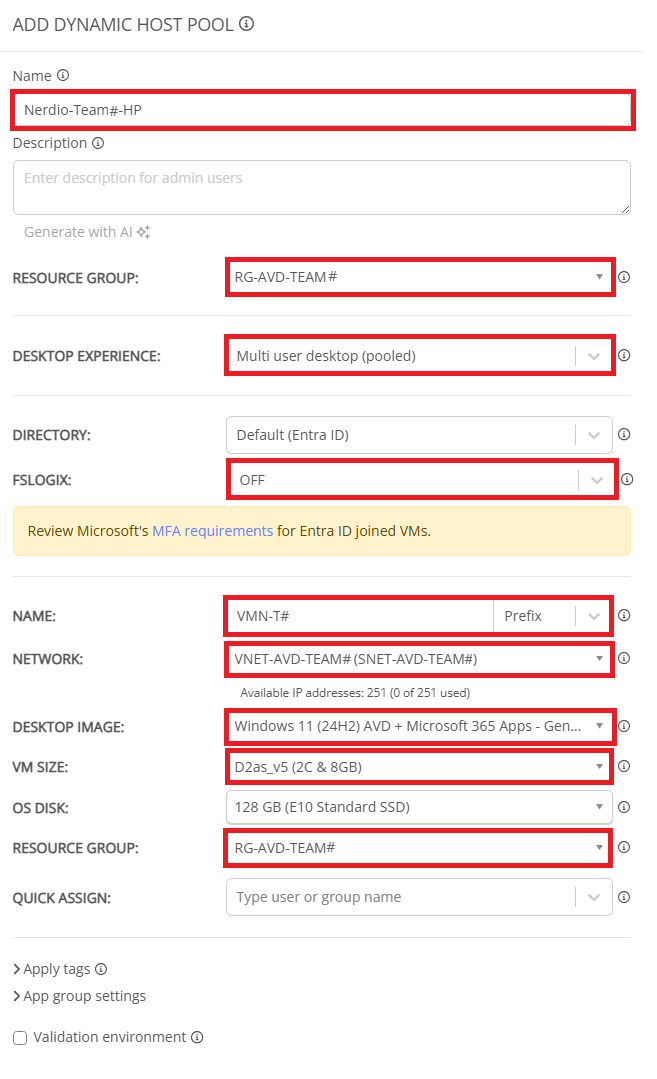
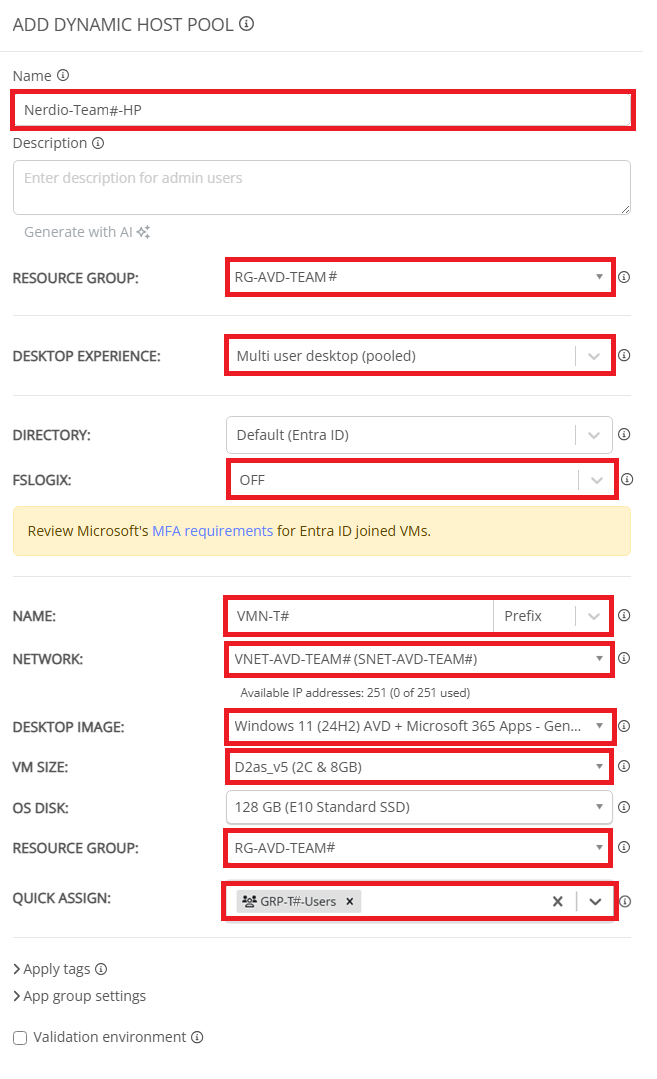
Commit Nerdio

Changed region(s): [[0.3349, 0.7952, 0.9741, 0.8563]]

diff --git a/Nerdio/01-Enterprise-Foundations-Lab.md b/Nerdio/01-Enterprise-Foundations-Lab.md
@@ -44,7 +44,7 @@
 | VM Size | **D2as_v5** |
 | OS Disk | Deixe como padrão (E10) |
 | Resource Group | **Escolha o Resource Group conforme seu time. Ex: RG-AVD-TEAM#** |
-| Quick-Assign | Deixe em branco. |
+| Quick-Assign | **Escolha o grupo de usuários do seu time. Ex: GRP-T#-Users** |
 
 **Atenção: Lembre-se de trocar o # pelo número do seu time no desafio**
 
